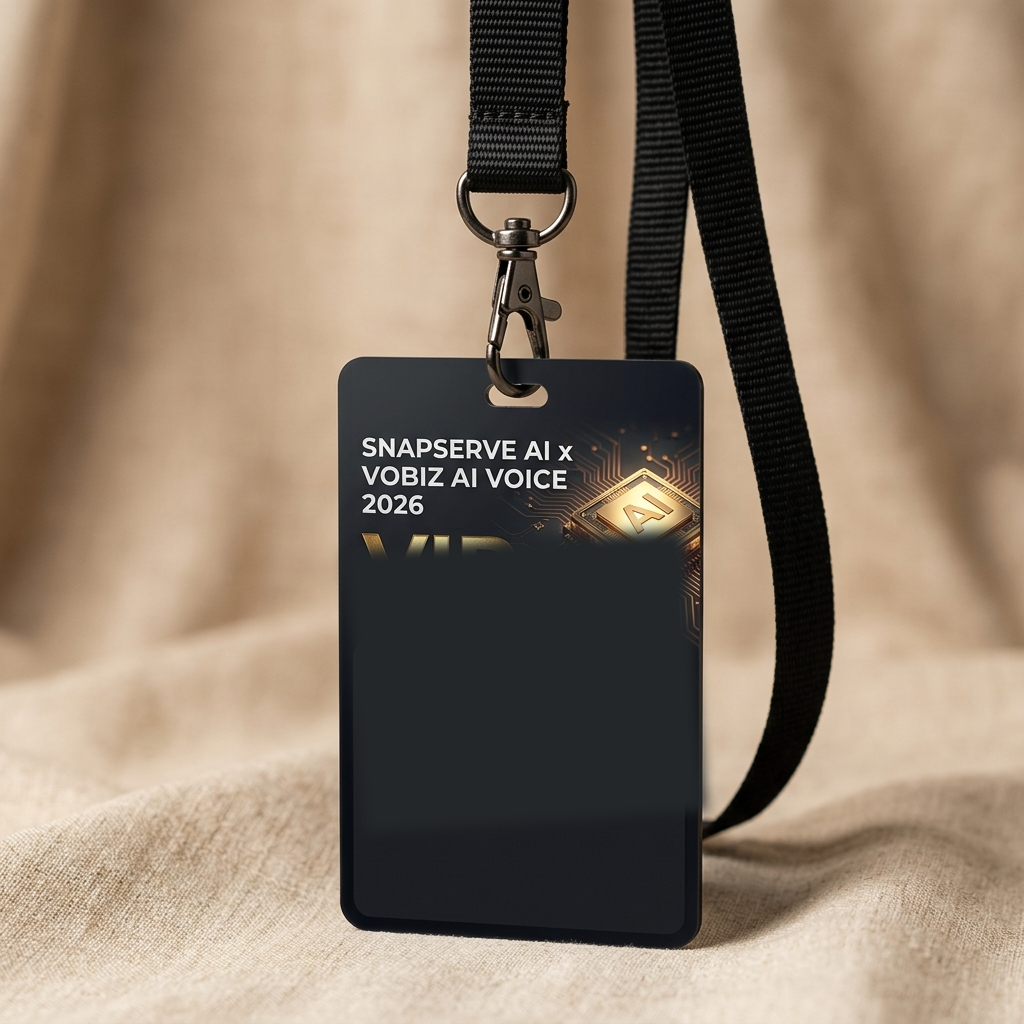
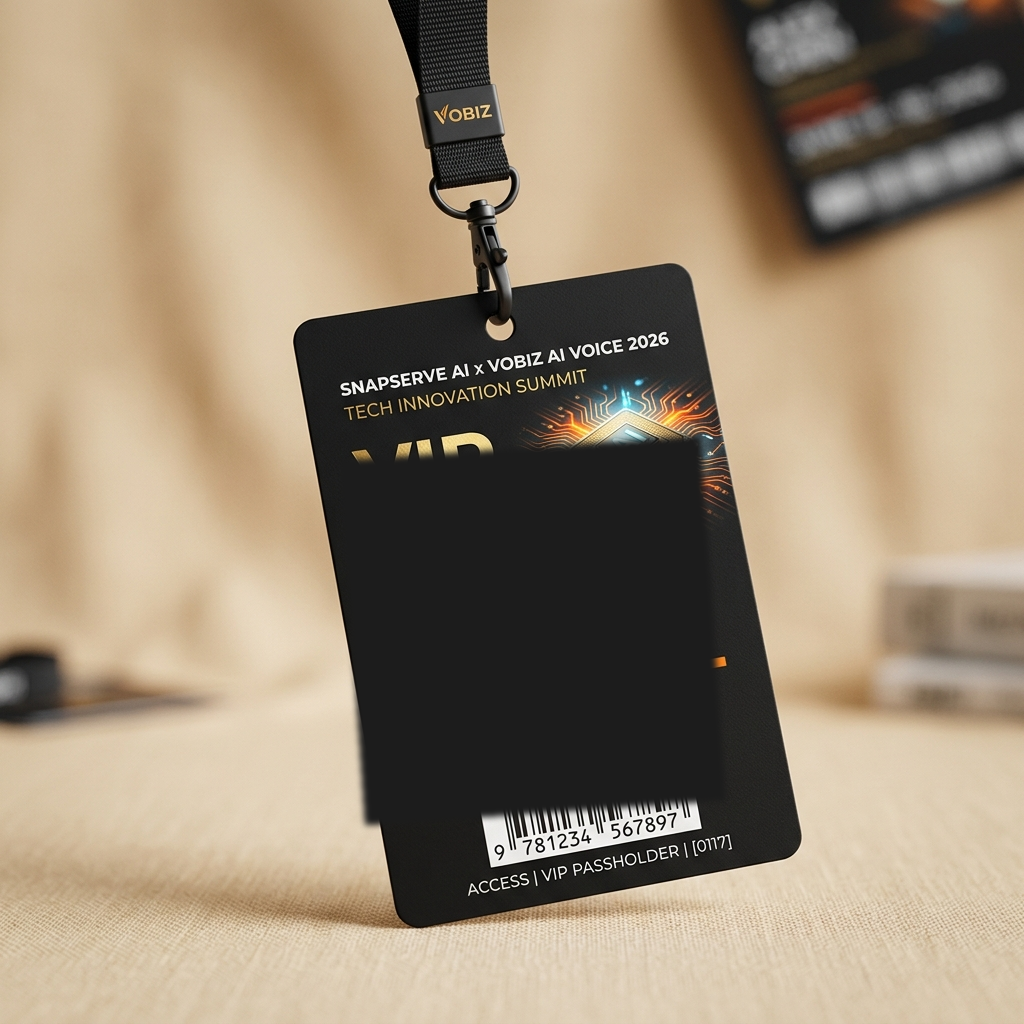
fix(pass): erase all text from y=460 to y=800 in image template and map text to exact reference slots

diff --git a/apps/web/src/components/ui/LanyardBadge.tsx b/apps/web/src/components/ui/LanyardBadge.tsx
@@ -84,43 +84,44 @@ export function LanyardBadge({
           ctx.rotate(-0.066)
           ctx.translate(-512 * scaleX, -512 * scaleY)
 
-          // 3. Render Dynamic Participant Information in Exact 3D Card Alignment
+          // 3. Render Dynamic Participant Information in Exact 3D Reference Slots
           ctx.textAlign = 'left'
 
-          // Participant Name
+          // Participant Name (Replaces ALEX CHEN slot)
           ctx.fillStyle = '#FFFFFF'
-          ctx.font = '900 36px sans-serif'
-          ctx.fillText(participantName.toUpperCase(), 375 * scaleX, 615 * scaleY)
+          ctx.font = '900 38px sans-serif'
+          ctx.fillText(participantName.toUpperCase(), 375 * scaleX, 525 * scaleY)
 
-          // Speaker / Member Role
+          // Speaker / Member Role (Replaces SPEAKER slot)
           ctx.fillStyle = '#D4AF37'
-          ctx.font = '900 17px sans-serif'
-          ctx.fillText((memberRole || 'TEAM LEAD').toUpperCase(), 375 * scaleX, 645 * scaleY)
+          ctx.font = '900 18px sans-serif'
+          ctx.fillText((memberRole || 'TEAM LEAD').toUpperCase(), 375 * scaleX, 565 * scaleY)
 
-          // Subtitle Track: AI குரல் • VOICE FOR TAMIL NADU
+          // Subtitle Track (Replaces PRODUCT DESIGN LEAD slot)
           ctx.fillStyle = '#CBD5E1'
-          ctx.font = '700 14px sans-serif'
-          ctx.fillText('AI குரல் • VOICE FOR TAMIL NADU', 375 * scaleX, 670 * scaleY)
+          ctx.font = '700 15px sans-serif'
+          ctx.fillText('AI குரல் • VOICE FOR TAMIL NADU', 375 * scaleX, 595 * scaleY)
 
-          // Team Name
+          // Team Name (Replaces SNAPSERVE AI slot)
           ctx.fillStyle = '#E83C00'
-          ctx.font = '900 15px sans-serif'
-          ctx.fillText(teamName.toUpperCase(), 375 * scaleX, 692 * scaleY)
+          ctx.font = '900 16px sans-serif'
+          ctx.fillText(teamName.toUpperCase(), 375 * scaleX, 625 * scaleY)
 
-          // Solid Brand Orange Horizontal Accent Line
+          // Solid Brand Orange Horizontal Accent Line (Replaces reference orange bar)
           ctx.fillStyle = '#E83C00'
           ctx.beginPath()
-          ctx.roundRect(375 * scaleX, 705 * scaleY, 320 * scaleX, 5 * scaleY, 2.5)
+          ctx.roundRect(375 * scaleX, 645 * scaleY, 320 * scaleX, 5 * scaleY, 2.5)
           ctx.fill()
 
-          // Date & Venue Location
+          // Date (Replaces JUNE 15-18, 2026 slot)
           ctx.fillStyle = '#FFFFFF'
-          ctx.font = '900 18px sans-serif'
-          ctx.fillText('SATURDAY, 5 SEP 2026', 375 * scaleX, 740 * scaleY)
+          ctx.font = '900 20px sans-serif'
+          ctx.fillText('SATURDAY, 5 SEP 2026', 375 * scaleX, 690 * scaleY)
 
+          // Venue Location (Replaces SAN FRANCISCO, CA slot)
           ctx.fillStyle = '#D4AF37'
-          ctx.font = '900 13px sans-serif'
-          ctx.fillText('OLIVE PUBLIC SCHOOL, CHENNAI', 375 * scaleX, 762 * scaleY)
+          ctx.font = '900 14px sans-serif'
+          ctx.fillText('OLIVE PUBLIC SCHOOL, CHENNAI', 375 * scaleX, 720 * scaleY)
 
           ctx.restore()
 
